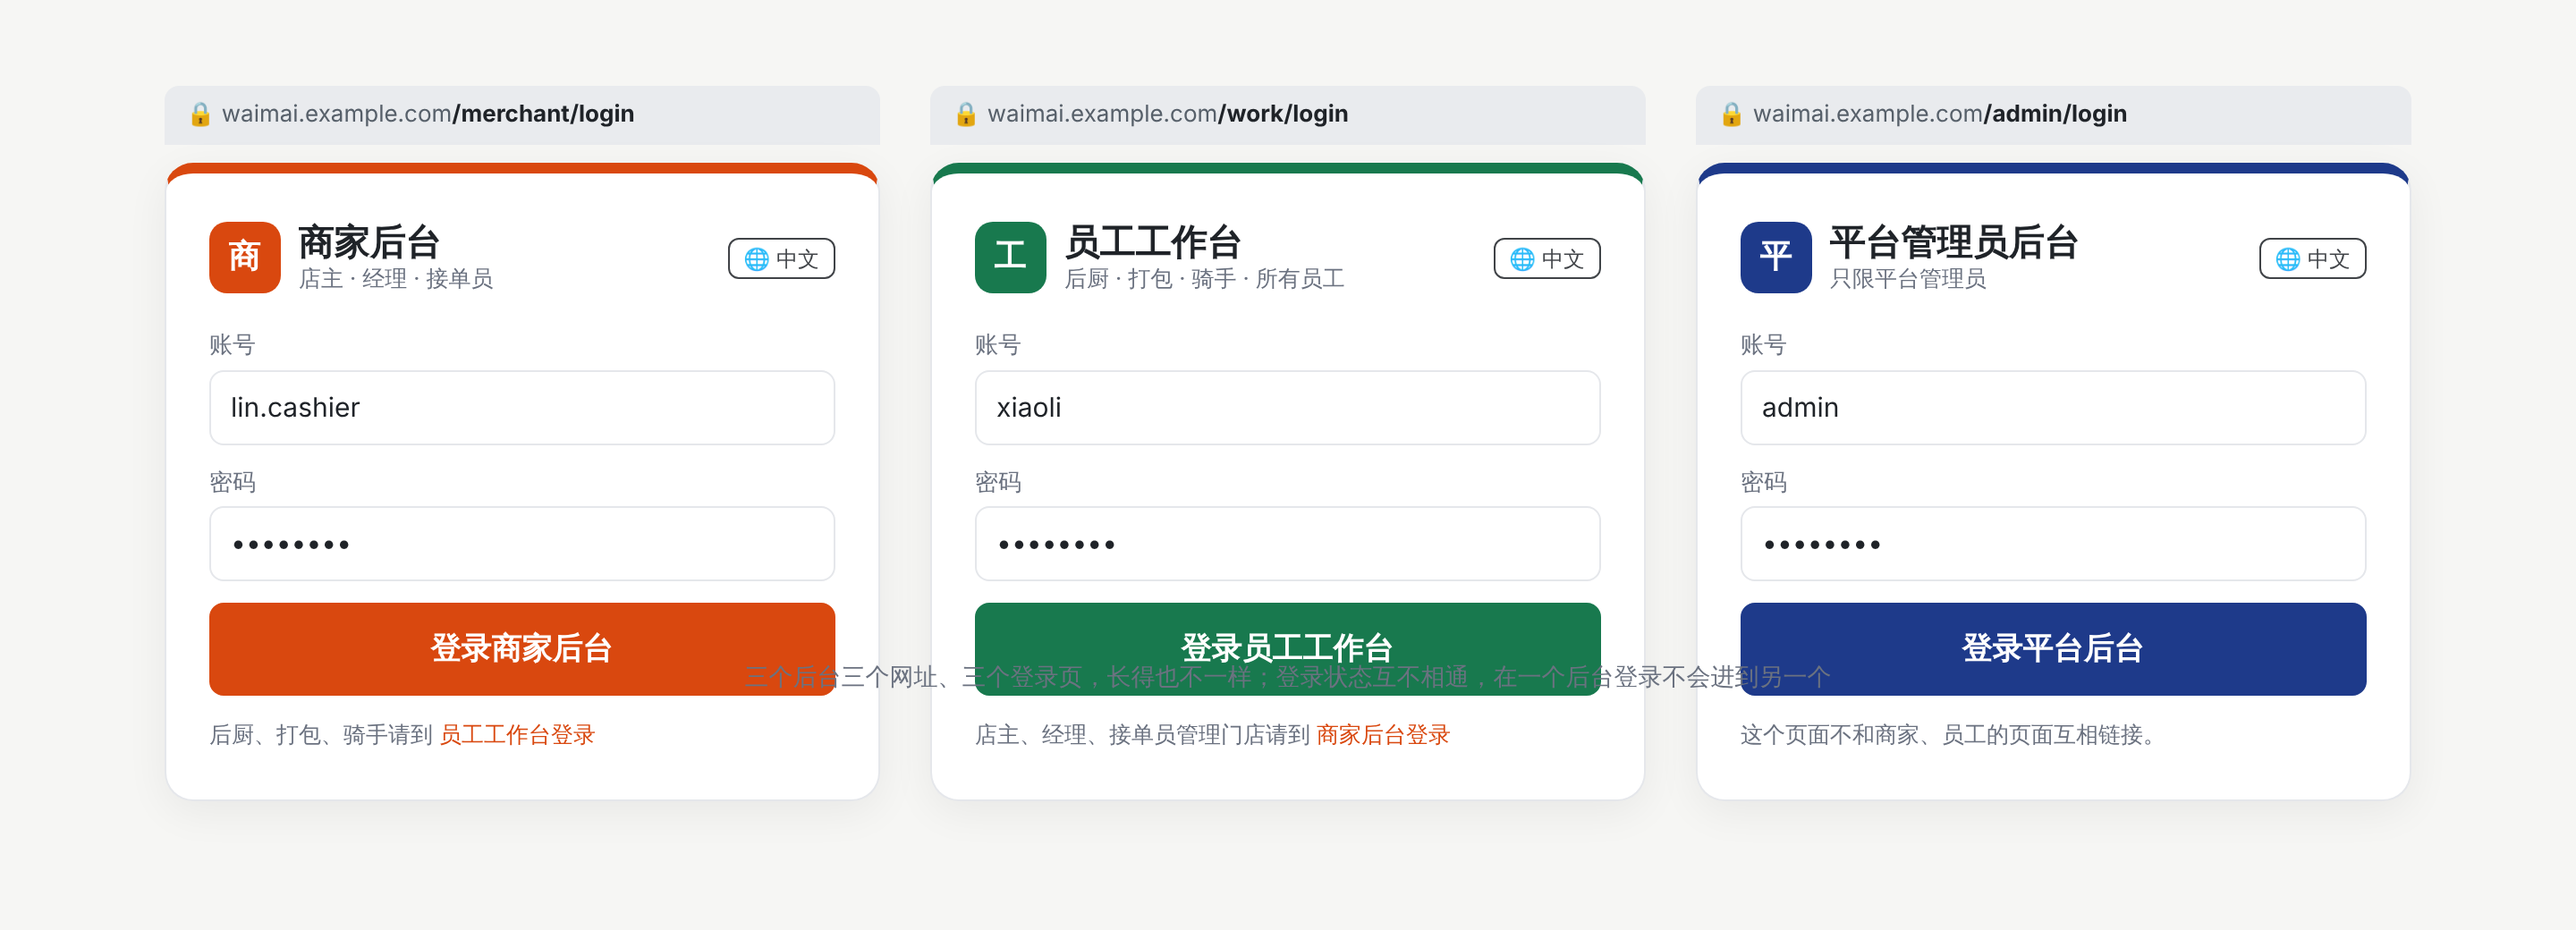
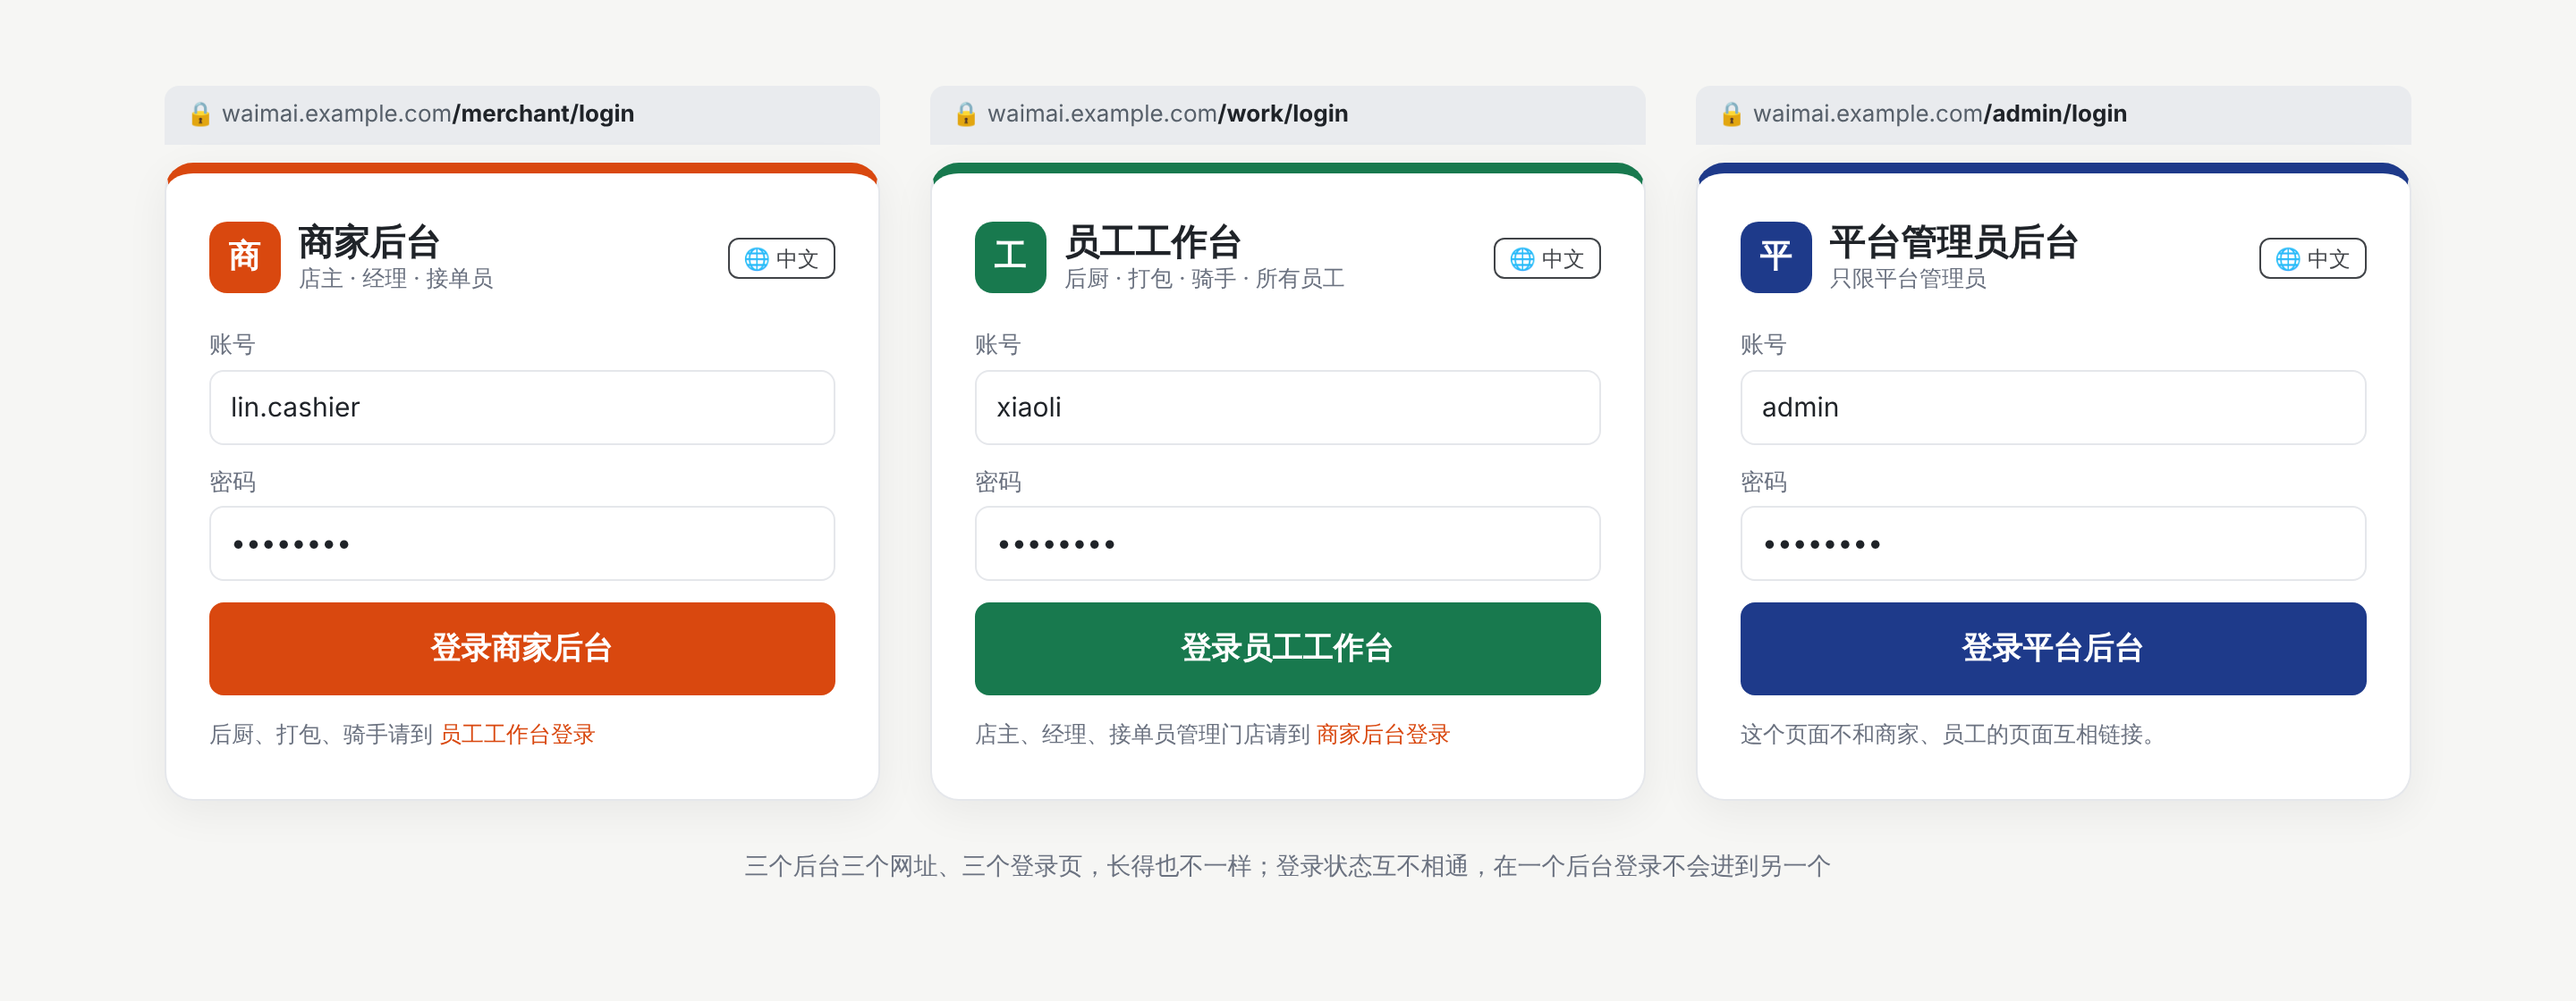
员工工作台、商家后台、平台后台分开网址和登录（方案 v0.2）
Claude-Session: https://claude.ai/code/session_0171QGWK57wVTWkbRvJrpXe4

diff --git a/docs/staff-access-prototype/index.html b/docs/staff-access-prototype/index.html
@@ -89,7 +89,7 @@
 
 <!-- ============ 01 三个登录页（v0.2：三个网址分开） ============ -->
 <section id="login">
-  <div class="stage" style="gap:28px">
+  <div class="stage" style="gap:28px;min-height:0">
     <div>
       <div class="urlbar">🔒 waimai.example.com<b>/merchant/login</b></div>
       <div class="frame" style="border-top:6px solid #d9480f">
@@ -127,7 +127,7 @@
     </div>
 
   </div>
-  <div class="cap" style="margin-top:-150px;padding-bottom:28px">三个后台三个网址、三个登录页，长得也不一样；登录状态互不相通，在一个后台登录不会进到另一个</div>
+  <div class="cap" style="margin-top:-20px;padding-bottom:28px">三个后台三个网址、三个登录页，长得也不一样；登录状态互不相通，在一个后台登录不会进到另一个</div>
 </section>
 
 <!-- ============ 02 选择身份 / 普通员工被拦 ============ -->
